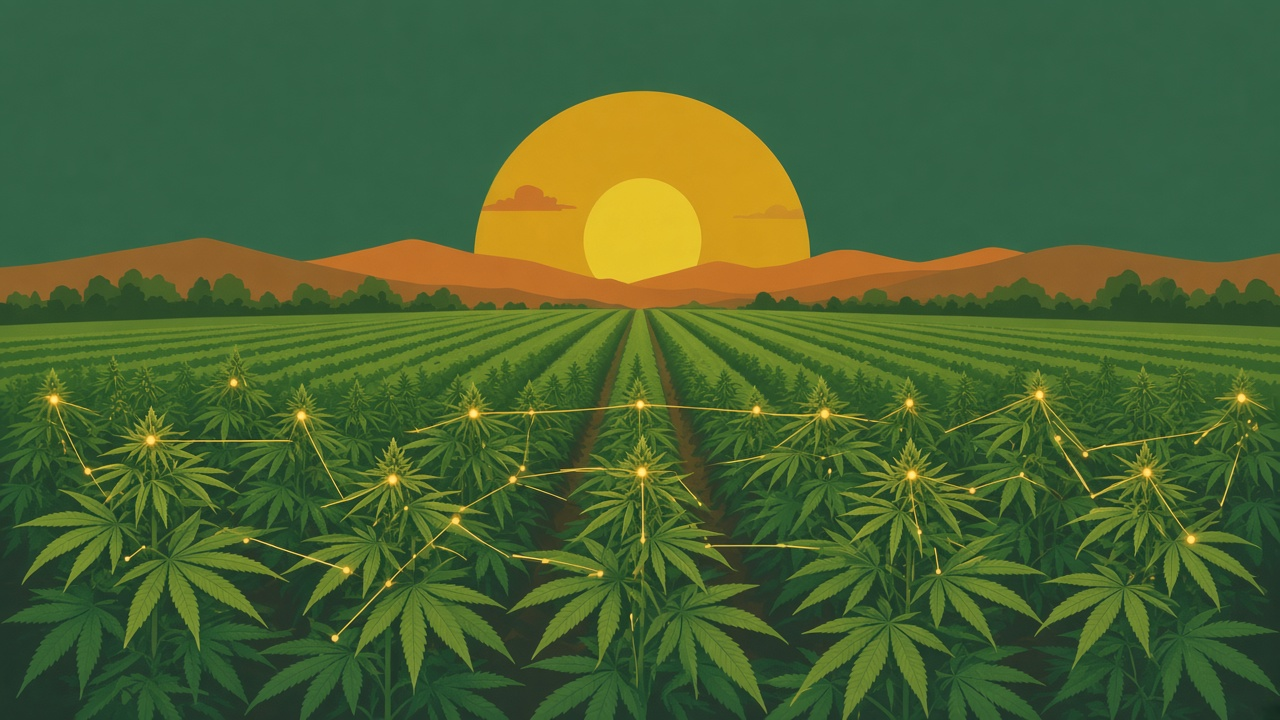
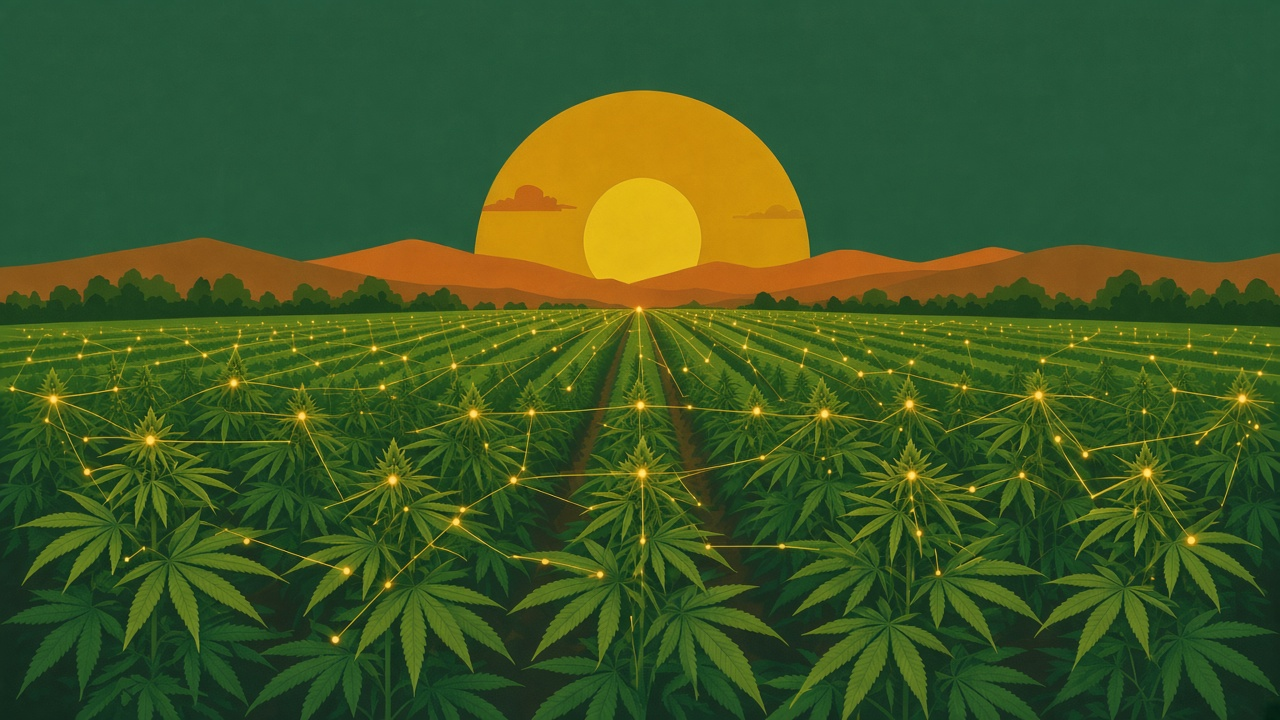
Run the cover light-chain through the whole crop, and place the RWA case in agriculture.

diff --git a/pitch/colosseum/index.html b/pitch/colosseum/index.html
@@ -6,7 +6,7 @@
     <title>growtoo</title>
     <meta name="robots" content="noindex" />
     <meta name="theme-color" content="#42714d" />
-    <link rel="stylesheet" href="deck.css?v=20260924i" />
+    <link rel="stylesheet" href="deck.css?v=20260924j" />
   </head>
   <body>
     <main id="deck">
@@ -16,7 +16,7 @@
           <span class="kicker">Cannabis journaling</span>
           <h1>Growers data on chain.</h1>
           <p class="say">Growers list the plant. Adopters invest in it.</p>
-          <p class="say say--next">A real RWA case for agriculture.</p>
+          <p class="say say--next">A real RWA case in agriculture.</p>
         </div>
       </section>
 

diff --git a/pitch/colosseum/deck.css b/pitch/colosseum/deck.css
@@ -125,7 +125,7 @@ body {
 .slide--cover::after {
   display: block;
   height: min(48vh, 460px);
-  background-image: url("field.jpg?v=20260924h");
+  background-image: url("field.jpg?v=20260924j");
   background-size: cover;
   background-position: center 68%;
   -webkit-mask-image: linear-gradient(to bottom, transparent, #000 16%);
@@ -416,7 +416,7 @@ a { color: var(--poster); }
   .slide--cover::after {
     display: block;
     height: 230px;
-    background-image: url("field.jpg?v=20260924h");
+    background-image: url("field.jpg?v=20260924j");
     background-size: 220% auto;
     background-position: center bottom;
   }
